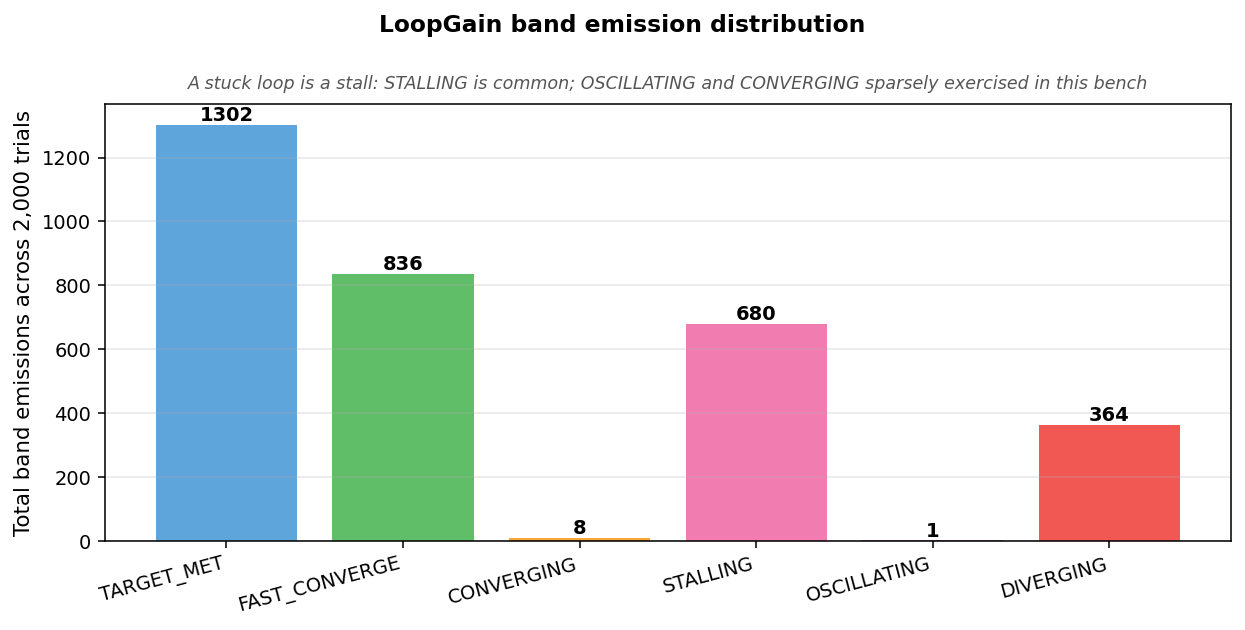
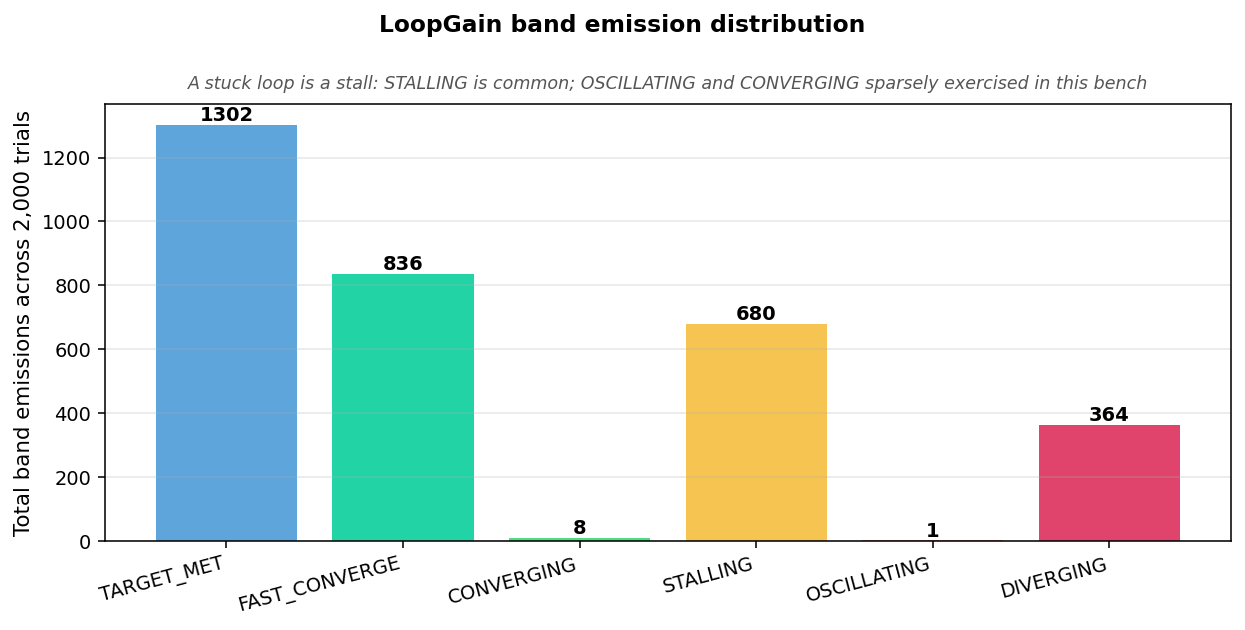
fix(charts): band_emissions uses the canonical LoopGain band palette
The band-distribution chart used generic matplotlib colors. Switch the
five bands to the product band palette (dashboard src/lib/bands.ts
BAND_COLOR / tokens.css, same hexes as the landing): FAST_CONVERGE teal
#22D3A5, CONVERGING green #4ADE80, STALLING amber #F5C451, OSCILLATING
salmon #F97373, DIVERGING pink #E0436B. TARGET_MET keeps a neutral blue
(it's the terminal success outcome, not one of the five bands).

Changed region(s): [[0.2442, 0.4222, 0.3968, 0.8746], [0.5494, 0.5127, 0.6715, 0.8746], [0.4273, 0.8444, 0.5189, 0.8746]]

diff --git a/analysis/charts.py b/analysis/charts.py
@@ -250,13 +250,16 @@ def chart_4_band_emissions(trials: list[dict]) -> None:
     order = ["TARGET_MET", "FAST_CONVERGE", "CONVERGING", "STALLING", "OSCILLATING", "DIVERGING"]
     values = [states.get(b, 0) for b in order]
     fig, ax = plt.subplots(figsize=(9, 4.5))
+    # Canonical LoopGain band palette (matches the product UI / landing —
+    # dashboard src/lib/bands.ts BAND_COLOR + tokens.css). TARGET_MET isn't a
+    # band (it's the terminal success outcome), so it keeps a neutral blue.
     color_map = {
         "TARGET_MET": "#5DA5DA",
-        "FAST_CONVERGE": "#60BD68",
-        "CONVERGING": "#FAA43A",
-        "STALLING": "#F17CB0",
-        "OSCILLATING": "#B276B2",
-        "DIVERGING": "#F15854",
+        "FAST_CONVERGE": "#22D3A5",  # --band-fast
+        "CONVERGING": "#4ADE80",     # --band-conv
+        "STALLING": "#F5C451",       # --band-stall
+        "OSCILLATING": "#F97373",    # --band-osc
+        "DIVERGING": "#E0436B",      # --band-div
     }
     bars = ax.bar(order, values, color=[color_map[b] for b in order])
     for bar, v in zip(bars, values):
